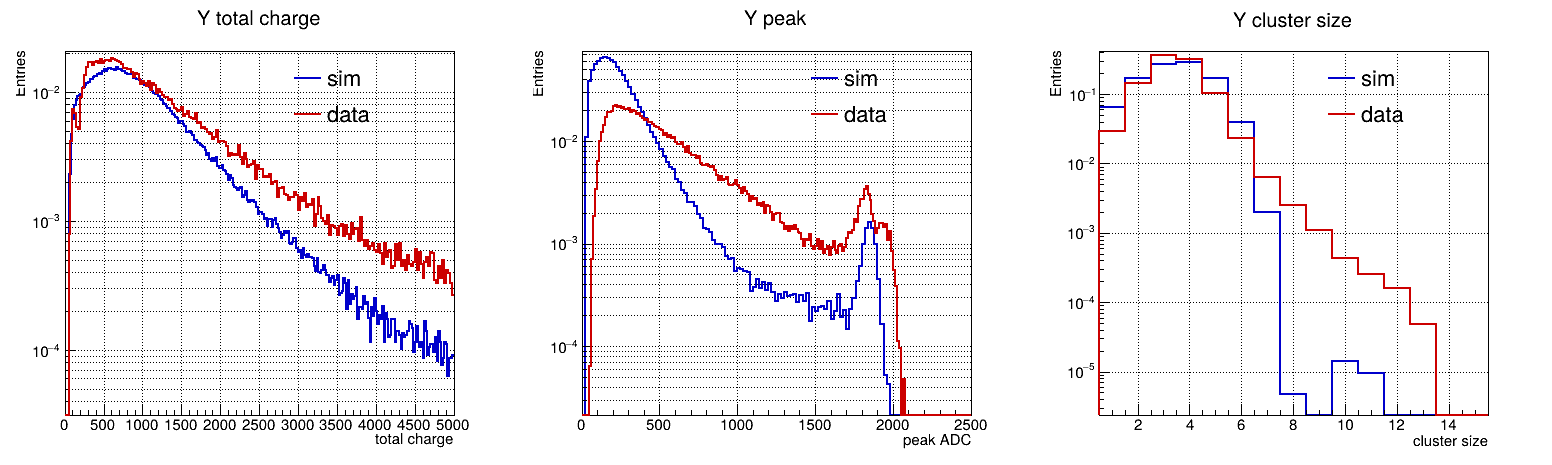
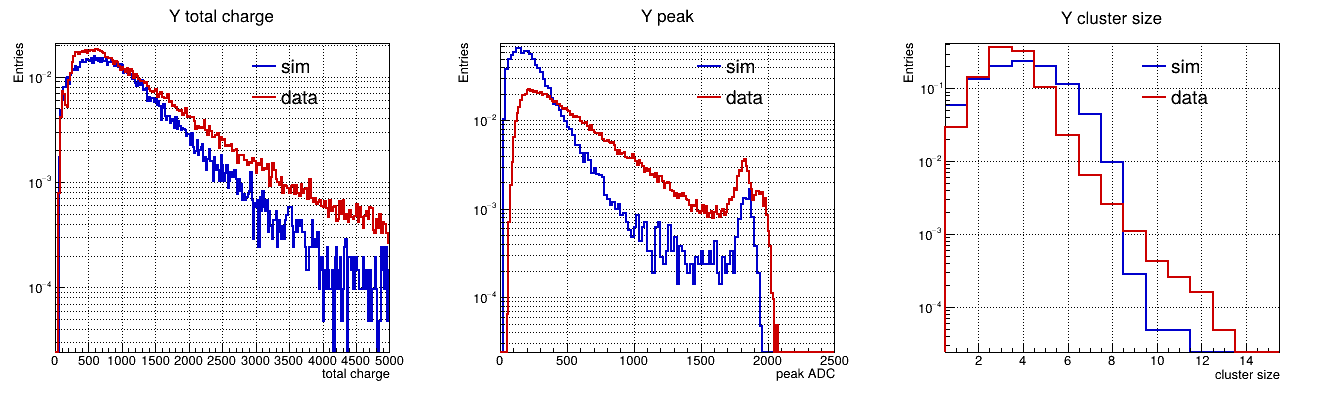
update occupancy

diff --git a/GEMdig.C b/GEMdig.C
@@ -56,13 +56,13 @@ EntryCounts Rsolve_bgEntry(TChain* signal, TChain* bg, int bgFiles){
     cout << "background beamN: " << beamN_bg << endl;
     if(beamN_bg <= 0.) return {};
 
-    const double beam_current = 5.; // nA
+    const double beam_current = 20.; // nA
     const double beam_rate =
         beam_current * 1.e-9 / 1.602176634e-19; // Hz
     const double beamN_window =
-        350. * 1.e-9 * beam_rate; // beam particles in a 350 ns window
+        400. * 1.e-9 * beam_rate; // beam particles in a 400 ns window
     const Int_t bgEntry = static_cast<Int_t>(
-        static_cast<double>(availableNbg) / beamN_bg * 10. * beamN_window);
+        static_cast<double>(availableNbg) / beamN_bg * beamN_window / 10.)+1;
 
     Long64_t Nbg = Ndata * static_cast<Long64_t>(bgEntry);
     if(Nbg > availableNbg) {
@@ -234,7 +234,8 @@ void loadFile(TChain& file, string filename) {
     file.SetBranchAddress("GEM.Edep", &GasEdep[0]);
 }
 
-void GEMdig() {
+void GEMdig(Long64_t maxEvent = -1) {
+
     auto start = std::chrono::high_resolution_clock::now();
     gRandom->SetSeed(0);//1232 // 0 表示用系统时间自动生成种子
 
@@ -256,11 +257,20 @@ void GEMdig() {
     const EntryCounts entryCounts =
         Rsolve_bgEntry(
             &signal, &background, static_cast<int>(backgroundFiles.size()));
-    const Long64_t Ndata = entryCounts.ndata;
-    const Long64_t Nbg = entryCounts.nbg;
+    Long64_t Ndata = entryCounts.ndata;
+    Long64_t Nbg = entryCounts.nbg;
     Int_t bg_entry = entryCounts.bgEntry;
+
+    bg_entry = 0;
+
+    if(maxEvent > 0 && maxEvent < Ndata) {
+        Ndata = maxEvent;
+        Nbg = Ndata * static_cast<Long64_t>(bg_entry);
+    }
     
     cout << "Background entries per signal event: " << bg_entry << endl;
+    cout << "Use " << Ndata << " signal entries and "
+         << Nbg << " background entries." << endl;
     TH1D *peakX_signal = new TH1D("peakX_signal", "peakX of the pulse", 250/2, 0, 2500);
     TH1D *peakY_signal = new TH1D("peakY_signal", "peakY of the pulse", 250/2, 0, 2500);
     TH1D *chargeX_signal = new TH1D("chargeX_signal", "total charge on X strips", 500/2, 0, 5000);
@@ -273,8 +283,8 @@ void GEMdig() {
     TH1D *Occupancy_X[4];
     TH1D *Occupancy_Y[4];
     for(int did = 0; did < 4; did++){
-        Occupancy_X[did] = new TH1D(Form("Occupancy of chamber%d(X strips)", did), Form("Occupancy of chamber%d (X strips)", did), map_x_bins, 0, map_x_bins);
-        Occupancy_Y[did] = new TH1D(Form("Occupancy of chamber%d(Y strips)", did), Form("Occupancy of chamber%d (Y strips)", did), map_y_bins, 0, map_y_bins);
+        Occupancy_X[did] = new TH1D(Form("Occupancy of chamber%d(X strips)", did), Form("Occupancy of chamber%d (X strips)", did), map_x_bins, 0-0.5, map_x_bins-0.5);
+        Occupancy_Y[did] = new TH1D(Form("Occupancy of chamber%d(Y strips)", did), Form("Occupancy of chamber%d (Y strips)", did), map_y_bins, 0-0.5, map_y_bins-0.5);
     }
 
     TFile *FiredStripsF = new TFile("output/FiredStrips_test.root", "RECREATE");
@@ -392,6 +402,9 @@ void GEMdig() {
     int totalEvent[4] = {0, 0, 0, 0}, validEvent[4] = {0, 0, 0, 0}; 
 
     double validEntries = 0;
+    double totalOccupancy_X[4] = {0, 0, 0, 0};
+    double totalOccupancy_Y[4] = {0, 0, 0, 0};
+
     for(int i=0;i<Ndata;i++) { //max 9000 for 4um
         if (i%5 == 0) cout << "start " << i << "\r" << flush;        
 
@@ -531,7 +544,7 @@ void GEMdig() {
         int bg = 0;
         for(int ii=i*bg_entry; ii<(i+1)*bg_entry; ii++) {
             background.GetEntry(ii);
-            Double_t t0 = gRandom->Uniform(-200., 6.*25.);
+            Double_t t0 = gRandom->Uniform(-25.*8., 8.*25);
 
             for(int n = 0; n < GasN; n++){
                 int did = GasDID[n];
@@ -640,6 +653,8 @@ void GEMdig() {
                     totalChargeX[did][firedIndex] = totalCharge;
                     peakSampleX[did][firedIndex] = peakSample;
                     fireNumX[did]++;
+                    Occupancy_X[did]->Fill(kx);
+                    totalOccupancy_X[did] += 1;
                 }
             }
 
@@ -671,6 +686,8 @@ void GEMdig() {
                     totalChargeY[did][firedIndex] = totalCharge;
                     peakSampleY[did][firedIndex] = peakSample;
                     fireNumY[did]++;
+                    Occupancy_Y[did]->Fill(ky);
+                    totalOccupancy_Y[did] += 1;
                 }
             }
         }
@@ -688,6 +705,12 @@ void GEMdig() {
 
     for(int did = 0; did < 4; did++) {
         std::cout << "Detector " << did << ": Total Events = " << totalEvent[did] << ", Valid Events = " << validEvent[did] << ", Efficiency: " << (totalEvent[did] > 0 ? static_cast<double>(validEvent[did]) / totalEvent[did] : 0.) << std::endl;
+    }
+
+    for(int did = 0; did < 4; did++) {
+        totalOccupancy_X[did] = totalOccupancy_X[did] / map_x_bins / validEntries;
+        totalOccupancy_Y[did] = totalOccupancy_Y[did] / map_y_bins / validEntries;
+        std::cout << "Detector " << did << ": Total Occupancy X = " << totalOccupancy_X[did]*100. << "%, Total Occupancy Y = " << totalOccupancy_Y[did]*100. << "%" << std::endl;
     }
 
     TCanvas *c1 = new TCanvas("c1", "Peak Distributions", 800, 600);
@@ -714,6 +737,24 @@ void GEMdig() {
     clusterSizeX_signal->Draw();
     c3->cd(2);
     clusterSizeY_signal->Draw();
+
+    for(int did = 0; did < 4; did++) {
+        Occupancy_X[did]->Scale(100.0 / validEntries);
+        Occupancy_Y[did]->Scale(100.0 / validEntries);
+    }
+    TCanvas *c4 = new TCanvas("c4", "Occupancy Distributions X", 800, 600);
+    c4->Divide(2, 2);
+    for(int did = 0; did < 4; did++) {
+        c4->cd(did+1);
+        Occupancy_X[did]->Draw();
+    }
+    TCanvas *c5 = new TCanvas("c5", "Occupancy Distributions Y", 800, 600);
+    c5->Divide(2, 2);
+    for(int did = 0; did < 4; did++) {
+        c5->cd(did+1);
+        Occupancy_Y[did]->Draw();
+    }
+    gSystem->ProcessEvents(); // Update the canvases to display the plots
 
     TFile *outputF = new TFile("output/GEMdig_output_test.root", "RECREATE");
     outputF->cd();